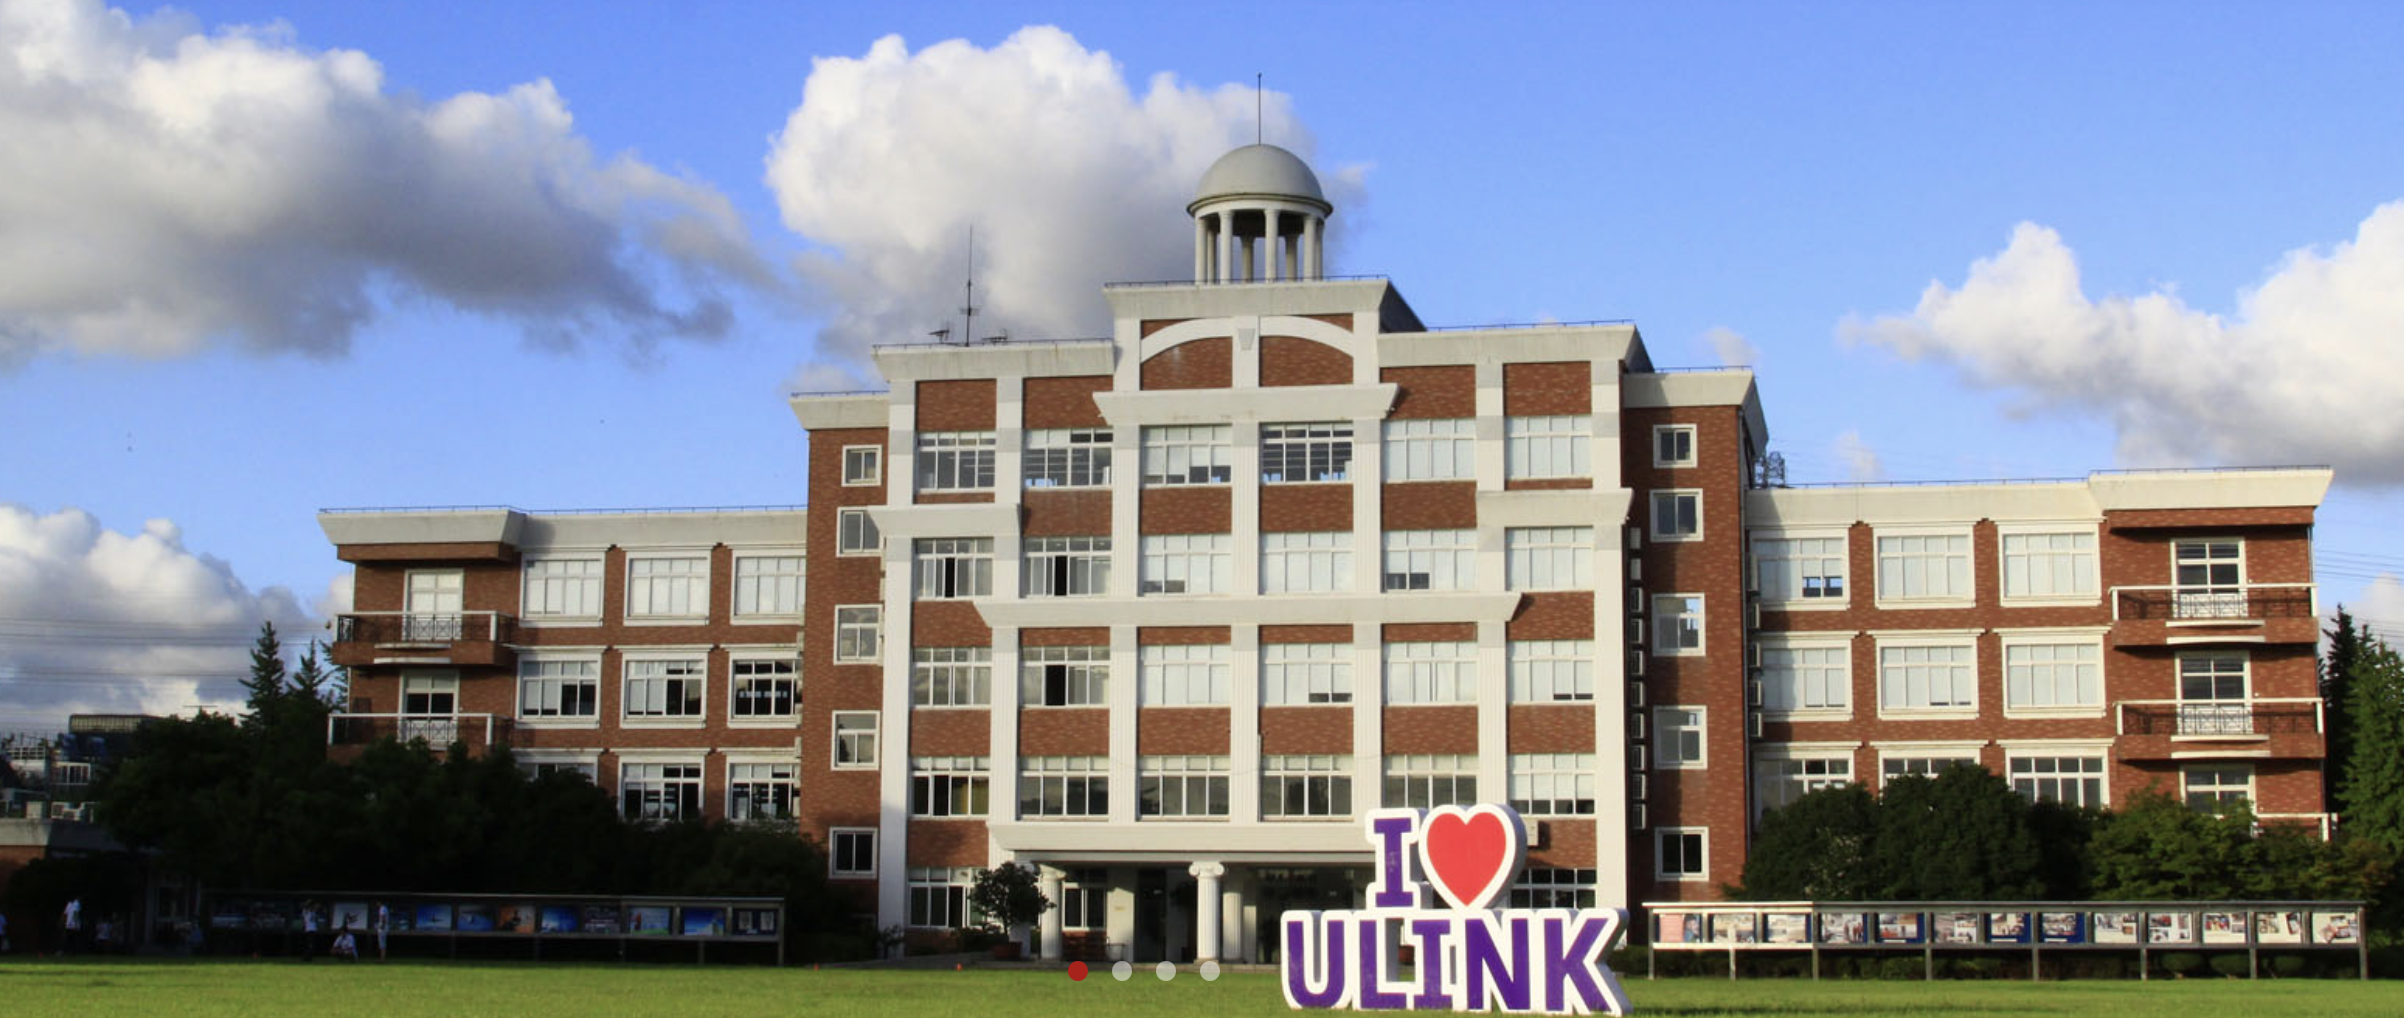
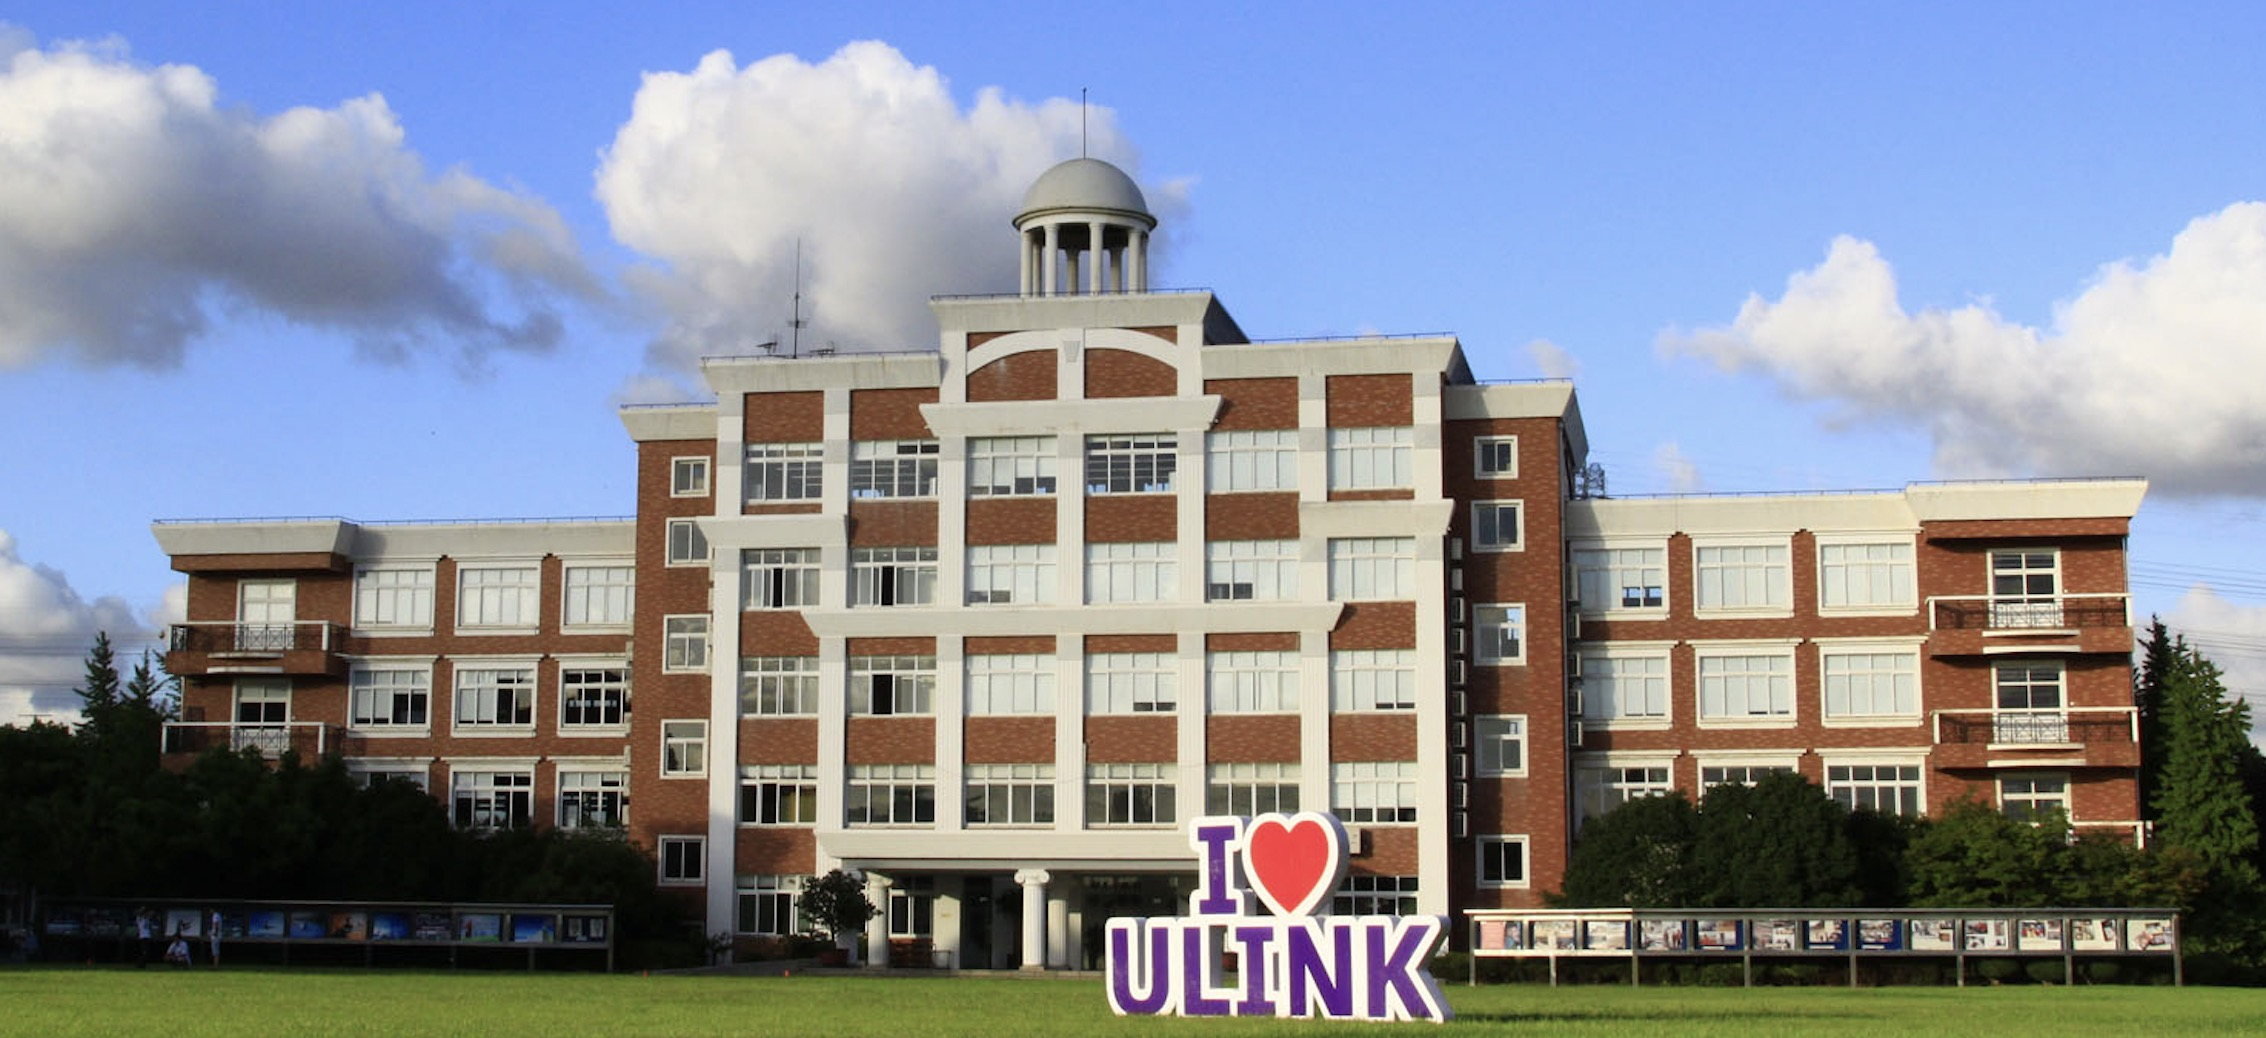
首页图片修改

diff --git a/src/views/layout/layout.vue b/src/views/layout/layout.vue
@@ -89,7 +89,7 @@
         </div>
         <div class="panel-collection">
           <img
-            src="https://niu.xycloud.net.cn/knowledge/123/123/2025-1-22/2C9F81E4-F38C-4C1F-A581-C24D3C7F20EE.png"
+            src="@/assets/images/layout/home-background.png"
             alt=""
           />
           <p class="panel-collection-title">UCS IBDP</p>
